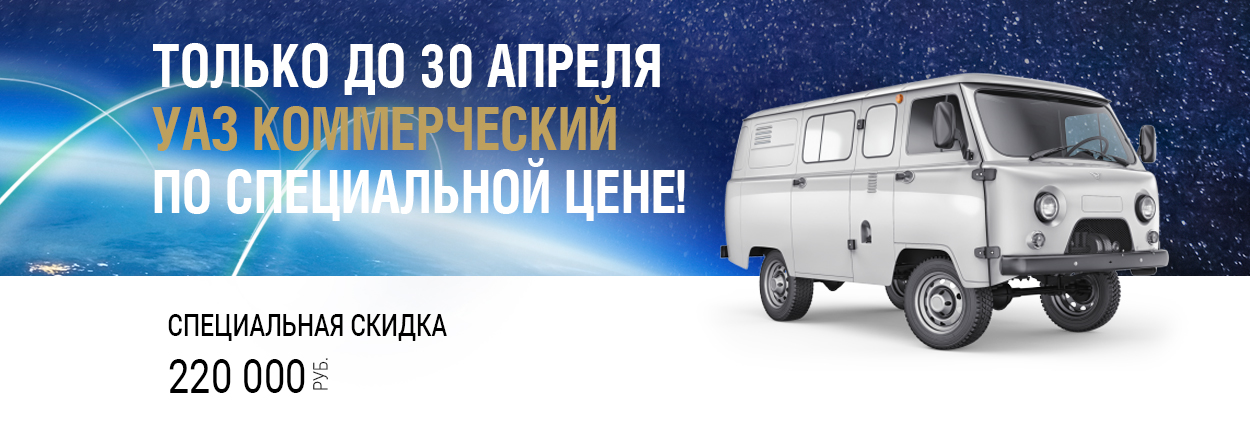
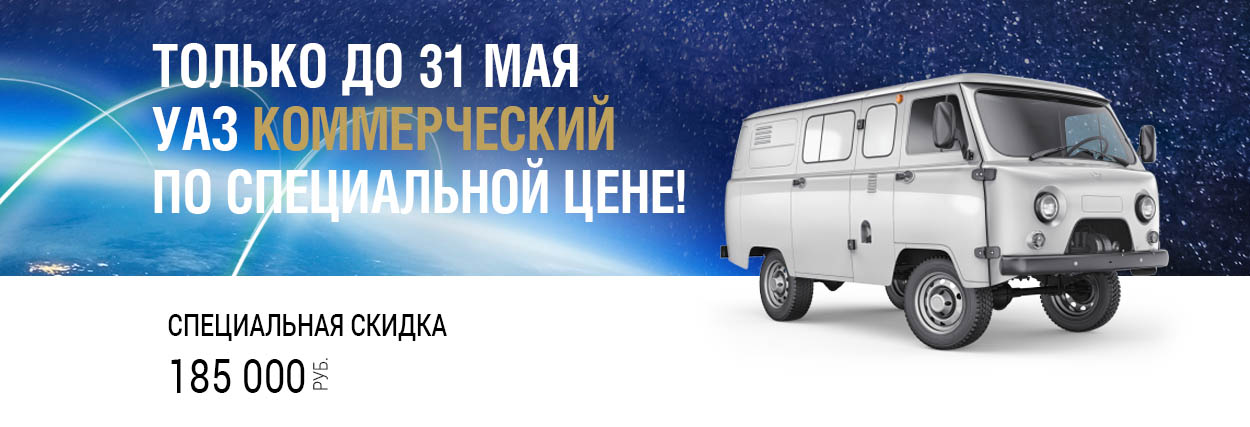
изменение скидок

diff --git a/commerce.html b/commerce.html
@@ -68,14 +68,13 @@
 
 
                 </div>
-                <h1>Скидка 220 000 рублей!</h1>
+                <h1>Скидка 185 000 рублей!</h1>
 
-                <p>Только до <strong>30 апреля 2016 года.</strong> при покупке УАЗ Коммерческий в автосалонах Торгмаш вы можете получить скидку <strong>220 000 рублей!</strong>
+                <p>Только до <strong>31 мая 2016 года.</strong> при покупке УАЗ Коммерческий в автосалонах Торгмаш вы можете получить скидку <strong>185 000 рублей!</strong>
                 </p>
-                <p>Скидка <strong>50 000 рублей</strong> за год выпуска автомобиля.</p>
                 <p>Скидка <strong>50 000 рублей</strong> по программе "УАЗ-кредит"</p>
-                <p>Скидка <strong>120 000 рублей</strong> по спецпрограмме утилизация/трейд-ин.</p>
-                <p><i>*Срок действия программы — с 23 ноября до 30 апреля 2016 года.</i>
+                <p>Скидка <strong>135 000 рублей</strong> по спецпрограмме утилизация/трейд-ин.</p>
+                <p><i>*Срок действия программы — с 23 ноября до 31 мая 2016 года.</i>
                 </p>
                 <hr>
 

diff --git a/cargo.html b/cargo.html
@@ -68,14 +68,13 @@
 
 
                 </div>
-                <h1>Скидка 215 000 рублей!</h1>
+                <h1>Скидка 185 000 рублей!</h1>
 
-                <p>Только до <strong>30 апреля 2016 года</strong> при покупке УАЗ Карго в автосалонах Торгмаш вы можете получить скидку <strong>215 000 рублей!</strong>
+                <p>Только до <strong>31 мая 2016 года</strong> при покупке УАЗ Карго в автосалонах Торгмаш вы можете получить скидку <strong>185 000 рублей!</strong>
                 </p>
-                <p>Скидка <strong>45 000 рублей</strong> за год выпуска автомобиля.</p>
                 <p>Скидка <strong>50 000 рублей</strong> по программе "УАЗ-кредит"</p>
-                <p>Скидка <strong>120 000 рублей</strong> по спецпрограмме утилизация/трейд-ин.</p>
-                <p><i>*Срок действия программы — с 23 ноября до 30 апреля 2016 года.</i>
+                <p>Скидка <strong>135 000 рублей</strong> по спецпрограмме утилизация/трейд-ин.</p>
+                <p><i>*Срок действия программы — с 23 ноября до 31 мая 2016 года.</i>
                 </p>
                 <hr>
 

diff --git a/hunter.html b/hunter.html
@@ -68,14 +68,13 @@
 
 
             </div>
-            <h1>Скидка 210 000 рублей!</h1>
+            <h1>Скидка 170 000 рублей!</h1>
 
-            <p>Только до <strong>30 апреля 2016 года.</strong> при покупке УАЗ ХАНТЕР в автосалонах Торгмаш вы можете получить скидку <strong>210 000 рублей!</strong>
+            <p>Только до <strong>31 мая 2016 года.</strong> при покупке УАЗ ХАНТЕР в автосалонах Торгмаш вы можете получить скидку <strong>170 000 рублей!</strong>
             </p>
-            <p>Скидка <strong>70 000 рублей</strong> за год выпуска автомобиля.</p>
             <p>Скидка <strong>50 000 рублей</strong> по программе "УАЗ-кредит"</p>
-            <p>Скидка <strong>90 000 рублей</strong> по спецпрограмме утилизация/трейд-ин.</p>
-            <p><i>*Срок действия программы — с 23 ноября до 30 апреля 2016 года.</i>
+            <p>Скидка <strong>120 000 рублей</strong> по спецпрограмме утилизация/трейд-ин.</p>
+            <p><i>*Срок действия программы — с 23 ноября до 31 мая 2016 года.</i>
             </p>
             <hr>
 

diff --git a/pickup.html b/pickup.html
@@ -68,14 +68,13 @@
 
 
             </div>
-            <h1>Скидка 275 000 рублей!</h1>
+            <h1>Скидка 185 000 рублей!</h1>
 
-            <p>Только до <strong>30 апреля 2016 года.</strong> при покупке УАЗ ПИКАП в автосалонах Торгмаш вы можете получить скидку <strong>275 000 рублей!</strong>
+            <p>Только до <strong>31 мая 2016 года.</strong> при покупке УАЗ ПИКАП в автосалонах Торгмаш вы можете получить скидку <strong>185 000 рублей!</strong>
             </p>
-            <p>Скидка <strong>105 000 рублей</strong> за год выпуска автомобиля.</p>
             <p>Скидка <strong>50 000 рублей</strong> по программе "УАЗ-кредит"</p>
-            <p>Скидка <strong>120 000 рублей</strong> по спецпрограмме утилизация/трейд-ин.</p>
-            <p><i>*Срок действия программы — с 23 ноября до 30 апреля 2016 года.</i>
+            <p>Скидка <strong>135 000 рублей</strong> по спецпрограмме утилизация/трейд-ин.</p>
+            <p><i>*Срок действия программы — с 23 ноября до 31 мая 2016 года.</i>
             </p>
             <hr>
 

diff --git a/patriot.html b/patriot.html
@@ -68,14 +68,13 @@
 
 
       </div>
-      <h1>Скидка 240 000 рублей!</h1>
+      <h1>Скидка 170 000 рублей!</h1>
 
-      <p>Только до <strong>30 апреля 2016 года.</strong> при покупке УАЗ ПАТРИОТ в автосалонах Торгмаш вы можете получить скидку <strong>240 000 рублей!</strong>
+      <p>Только до <strong>31 мая 2016 года.</strong> при покупке УАЗ ПАТРИОТ в автосалонах Торгмаш вы можете получить скидку <strong>170 000 рублей!</strong>
       </p>
-      <p>Скидка <strong>100 000 рублей</strong> за год выпуска автомобиля.</p>
       <p>Скидка <strong>50 000 рублей</strong> по программе "УАЗ-кредит"</p>
-      <p>Скидка <strong>90 000 рублей</strong> по спецпрограмме утилизация/трейд-ин.</p>
-      <p><i>*Срок действия программы — с 23 ноября до 30 апреля 2016 года.</i>
+      <p>Скидка <strong>120 000 рублей</strong> по спецпрограмме утилизация/трейд-ин.</p>
+      <p><i>*Срок действия программы — с 23 ноября до 31 мая 2016 года.</i>
       </p>
       <hr>
 
